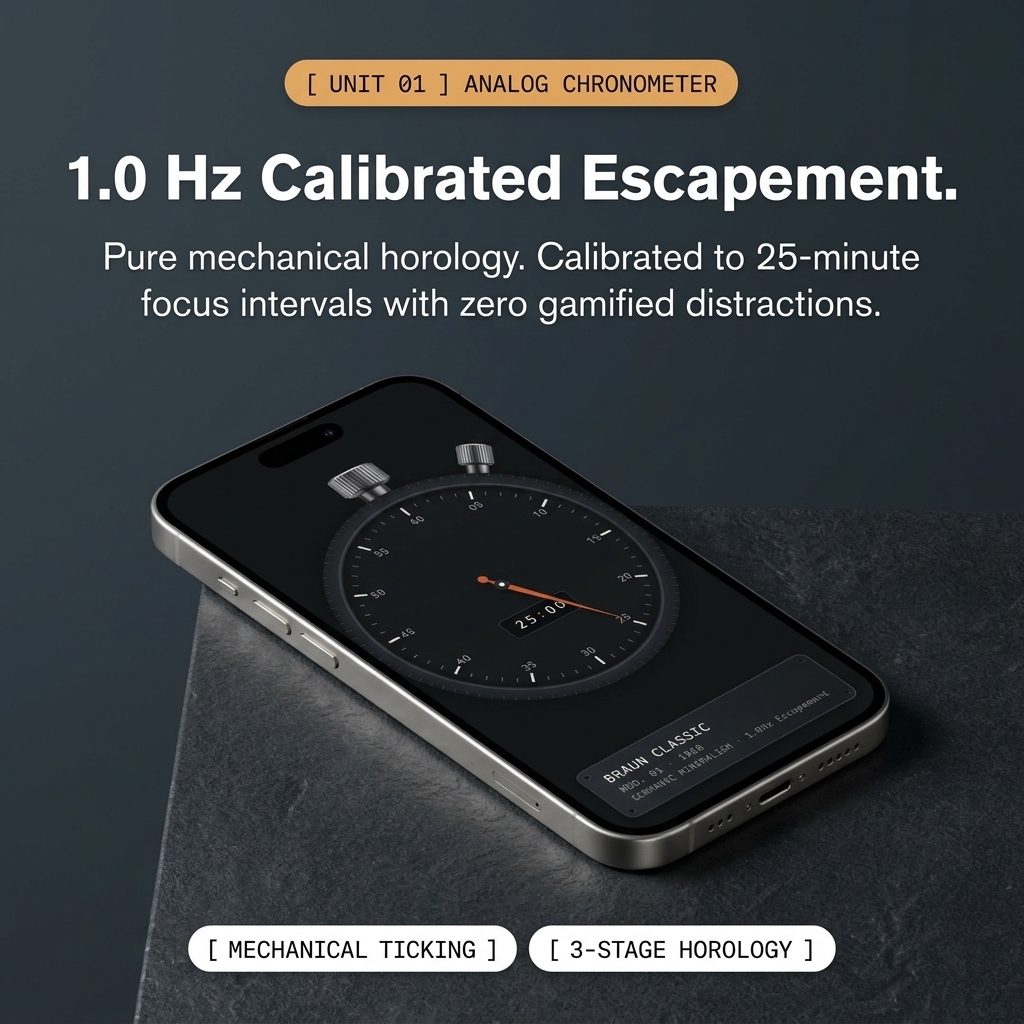
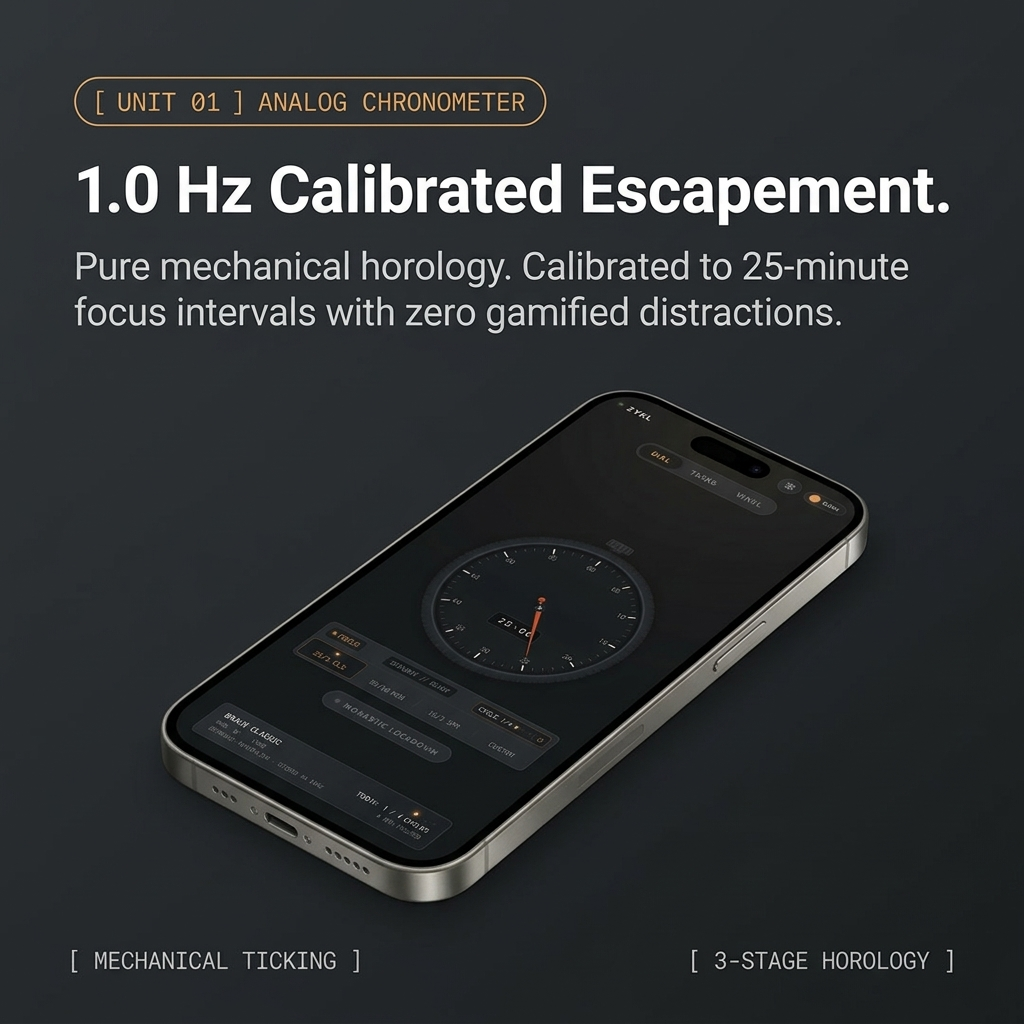
fix(promo): revise carousel slides 2, 4, 5, 6, 7 based on user feedback

Changed region(s): [[0.0625, 0.0312, 0.9375, 1.0]]

diff --git a/promo/Social Carousel 1x1/preview.html b/promo/Social Carousel 1x1/preview.html
@@ -648,7 +648,7 @@ const slidesData = [
     file: "02_Carousel_Unit01_Chronometer_1x1.jpg",
     title: "Unit 01: Analog Chronometer",
     telemetry: "SLIDE 02 // UNIT 01 CHRONOMETER",
-    desc: "1.0 Hz Calibrated Escapement. Knurled top crown & mechanical escapement dial on granite. Focus, Short Break, Long Break modes."
+    desc: "1.0 Hz Calibrated Escapement. Authentic ZYKL chronometer interface with mechanical dial, orange needle at 25:00, and tabs [DIAL, TASKS, VINYL]."
   },
   {
     num: 3,
@@ -662,28 +662,28 @@ const slidesData = [
     file: "04_Carousel_Unit03_Vinyl_Turntable_1x1.jpg",
     title: "Unit 03: Monastic Vinyl Turntable",
     telemetry: "SLIDE 04 // UNIT 03 VINYL TURNTABLE",
-    desc: "33⅓ RPM Ambient Soundscapes. Braun TP-1 spinning vinyl record, tonearm, and dual 6-disc acoustic drawers."
+    desc: "33⅓ RPM Ambient Soundscapes. Full uncropped 3D device staging showing Braun TP-1 spinning vinyl record, tonearm, and drawer."
   },
   {
     num: 5,
     file: "05_Carousel_Materiality_Day_Night_1x1.jpg",
     title: "Materiality: Day & Night Editions",
     telemetry: "SLIDE 05 // DUAL MATERIALITY",
-    desc: "Obsidian & Warm Bone 1976. Dual 3D phones showing Dark Obsidian and Warm Bone 1976 editions side-by-side with brass accents."
+    desc: "Obsidian & Warm Bone 1976. Exactly two smartphones staged side-by-side without overlapping: Dark Obsidian and Warm Bone 1976 editions."
   },
   {
     num: 6,
     file: "06_Carousel_Privacy_Local_SQLite_1x1.jpg",
     title: "Radical Privacy: 100% Local SQLite",
     telemetry: "SLIDE 06 // PRIVACY ARCHITECTURE",
-    desc: "Focus Analytics card on chamfered stone block. Zero Cloud. Zero Trackers. 100% Private Offline SQLite database."
+    desc: "100% Offline Focus Analytics. Full uncropped 3D smartphone displaying local SQLite metrics: 3h 55m focus time, weekly charts, zero trackers."
   },
   {
     num: 7,
     file: "07_Carousel_Closing_PlayStore_CTA_1x1.jpg",
     title: "Closing: Get it on Google Play",
     telemetry: "SLIDE 07 // PLAY STORE TERMINAL CTA",
-    desc: "Hardware installation plaque with prominent 'GET IT ON Google Play' button, QR code scan viewfinder, and package telemetry."
+    desc: "Hardware installation plaque with active 3D device mockup displaying ZYKL chronometer, official Google Play button, and QR scan viewfinder."
   }
 ];
 
